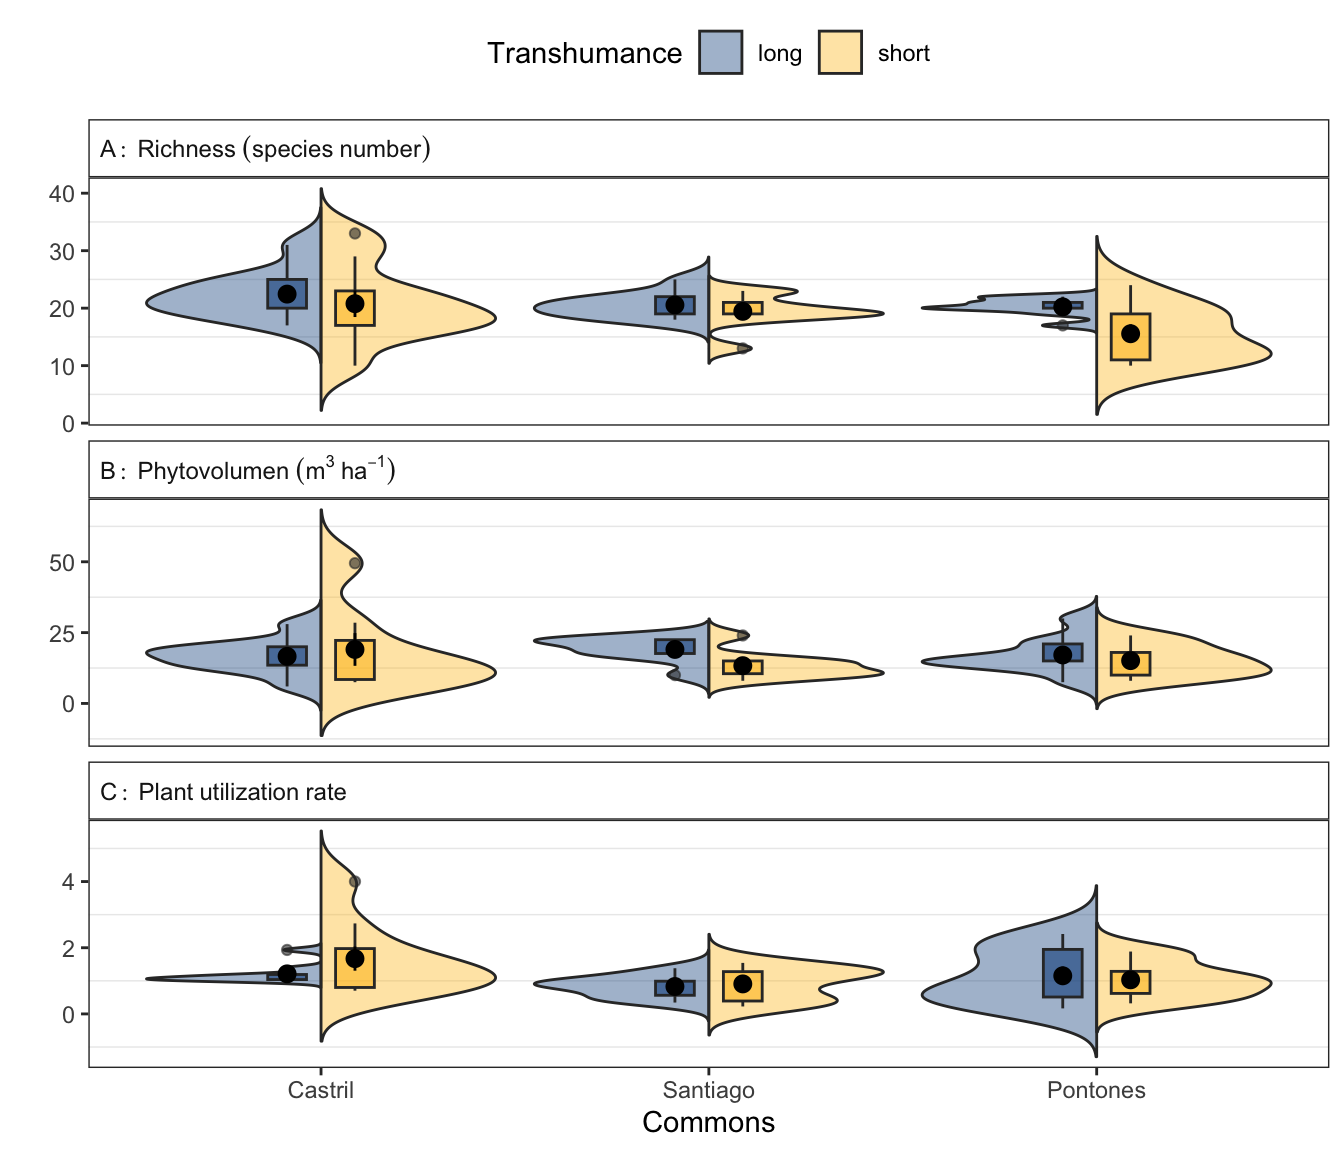
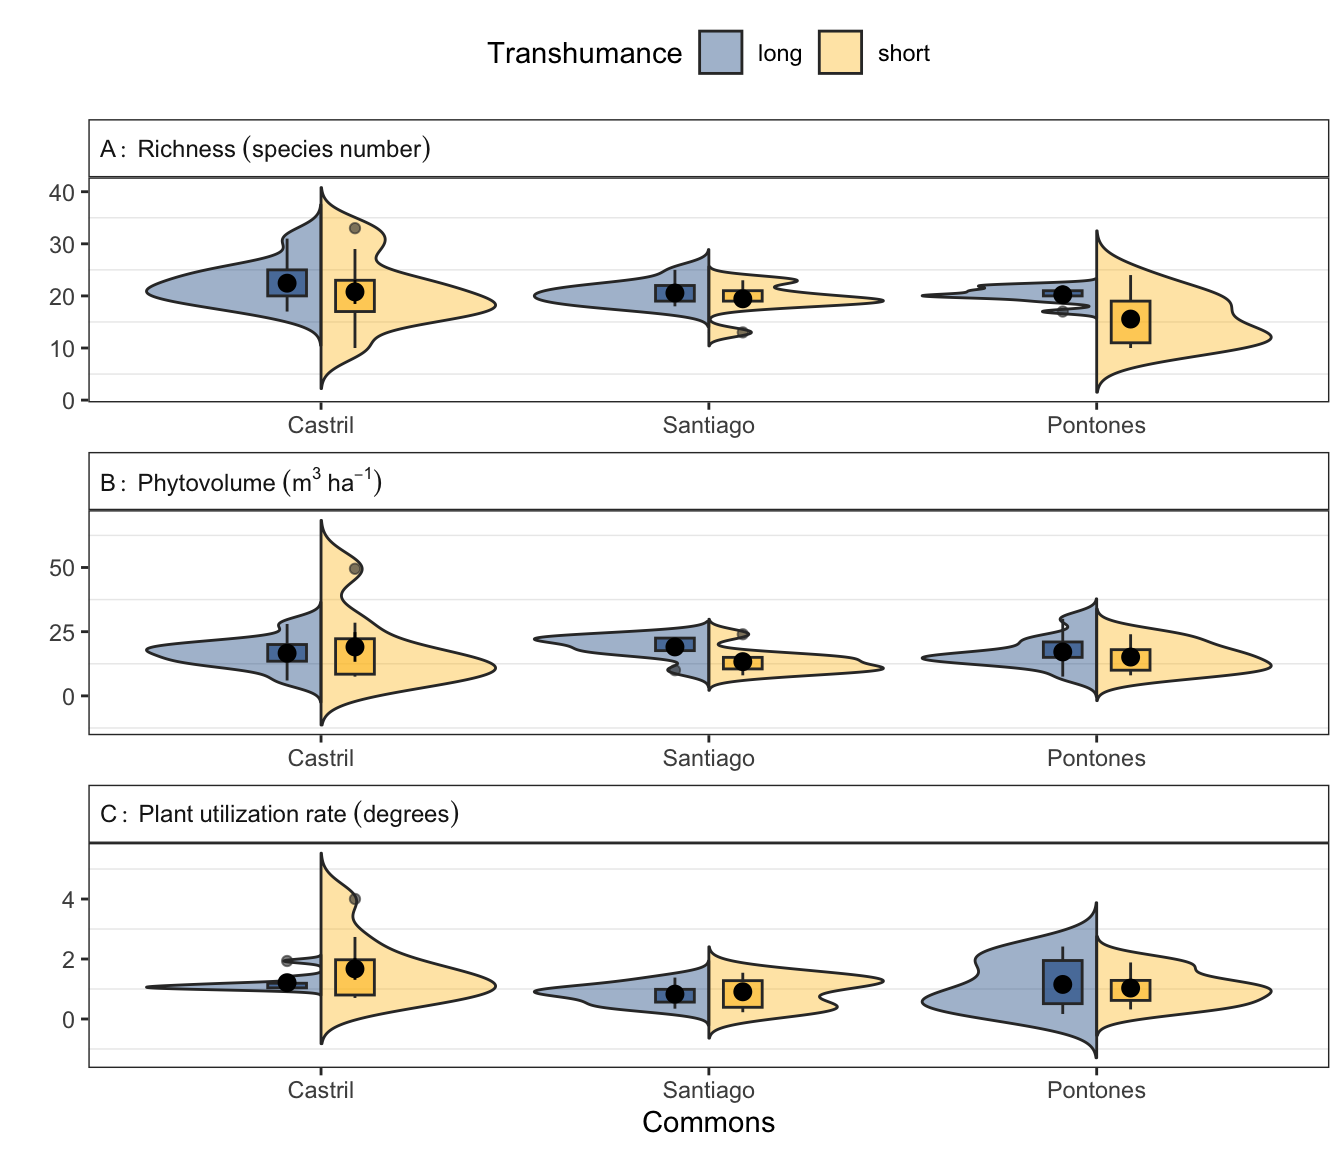
Build site.

diff --git a/docs/plots_commons_social.html b/docs/plots_commons_social.html
@@ -331,7 +331,7 @@ Checks <span class="glyphicon glyphicon-ok text-success" aria-hidden="true"></sp
 <div class="tab-content">
 <div id="summary" class="tab-pane fade in active">
 <p>
-<strong>Last updated:</strong> 2023-01-16
+<strong>Last updated:</strong> 2023-04-04
 </p>
 <p>
 <strong>Checks:</strong>
@@ -459,20 +459,20 @@ makes it easier to run your code on other machines.</p>
 <div class="panel panel-default">
 <div class="panel-heading">
 <p class="panel-title">
-<a data-toggle="collapse" data-parent="#workflowr-checks" href="#strongRepositoryversionstrongahrefhttpsgithubcomajpeluhumanecologytree3bbafbcb69c59c4a0760ad779698f3aeb27d7da1targetblank3bbafbca">
+<a data-toggle="collapse" data-parent="#workflowr-checks" href="#strongRepositoryversionstrongahrefhttpsgithubcomajpeluhumanecologytree24436310bbff6763eb1f9c738fd96c31eef33314targetblank2443631a">
 <span class="glyphicon glyphicon-ok text-success" aria-hidden="true"></span>
-<strong>Repository version:</strong> <a href="https://github.com/ajpelu/human_ecology/tree/3bbafbcb69c59c4a0760ad779698f3aeb27d7da1" target="_blank">3bbafbc</a>
+<strong>Repository version:</strong> <a href="https://github.com/ajpelu/human_ecology/tree/24436310bbff6763eb1f9c738fd96c31eef33314" target="_blank">2443631</a>
 </a>
 </p>
 </div>
[2 lines of base64/hex data omitted]
 <div class="panel-body">
 <p>
 Great! You are using Git for version control. Tracking code development and
 connecting the code version to the results is critical for reproducibility.
 </p>
 <p>
-The results in this page were generated with repository version <a href="https://github.com/ajpelu/human_ecology/tree/3bbafbcb69c59c4a0760ad779698f3aeb27d7da1" target="_blank">3bbafbc</a>.
+The results in this page were generated with repository version <a href="https://github.com/ajpelu/human_ecology/tree/24436310bbff6763eb1f9c738fd96c31eef33314" target="_blank">2443631</a>.
 See the <em>Past versions</em> tab to see a history of the changes made to the
 R Markdown and HTML files.
 </p>
@@ -486,15 +486,22 @@ results were generated:
 </p>
 <pre><code>
 Ignored files:
+    Ignored:    .DS_Store
     Ignored:    .Rhistory
     Ignored:    .Rproj.user/
 
 Untracked files:
-    Untracked:  output/combined_plot.jpg
-    Untracked:  output/spider_plot.jpg
+    Untracked:  output/combined_plot.svg
+    Untracked:  output/combined_plot_letters.jpg
+    Untracked:  output/combined_plot_letters.svg
+    Untracked:  output/spider_plot.svg
+    Untracked:  output/spider_plot.svg.2023_02_01_14_47_21.0.svg
+    Untracked:  output/spider_plot.svg.2023_02_07_16_19_28.0.svg
 
 Unstaged changes:
     Modified:   code/load_pkgs.R
+    Modified:   output/combined_plot.jpg
+    Modified:   output/spider_plot.jpg
 
 </code></pre>
 <p>
@@ -544,6 +551,40 @@ Message
 Rmd
 </td>
 <td>
+<a href="https://github.com/ajpelu/human_ecology/blob/24436310bbff6763eb1f9c738fd96c31eef33314/analysis/plots_commons_social.Rmd" target="_blank">2443631</a>
+</td>
+<td>
+ajpelu
+</td>
+<td>
+2023-04-04
+</td>
+<td>
+wflow_publish("analysis/plots_commons_social.Rmd")
+</td>
+</tr>
+<tr>
+<td>
+html
+</td>
+<td>
+<a href="https://rawcdn.githack.com/ajpelu/human_ecology/bcd2feedbeb855f1d87a68821abdda504062604b/docs/plots_commons_social.html" target="_blank">bcd2fee</a>
+</td>
+<td>
+ajpelu
+</td>
+<td>
+2023-01-16
+</td>
+<td>
+Build site.
+</td>
+</tr>
+<tr>
+<td>
+Rmd
+</td>
+<td>
 <a href="https://github.com/ajpelu/human_ecology/blob/3bbafbcb69c59c4a0760ad779698f3aeb27d7da1/analysis/plots_commons_social.Rmd" target="_blank">3bbafbc</a>
 </td>
 <td>
@@ -587,8 +628,8 @@ source(&quot;code/aux_functions.R&quot;)</code></pre>
   pivot_longer(cols = c(riqueza:tasa_cons)) |&gt; 
   mutate(names_var = recode_factor(name, 
                             riqueza = &quot;A:~Richness~(species~number)&quot;,
-                            fitovol_dm3 = &quot;B:~Phytovolumen~(m^3~ha^{-1})&quot;,
-                            tasa_cons = &quot;C:~Plant~utilization~rate&quot;))
+                            fitovol_dm3 = &quot;B:~Phytovolume~(m^3~ha^{-1})&quot;,
+                            tasa_cons = &quot;C:~Plant~utilization~rate~(degrees)&quot;))
 
 combined_plot &lt;- dflong |&gt;
   ggplot(aes(x = commons, y = value, fill = transh)) +
@@ -606,9 +647,9 @@ combined_plot &lt;- dflong |&gt;
   scale_fill_manual(name = &quot;Transhumance&quot;, values = colores) +
   # scale_fill_brewer(palette = &quot;Dark2&quot;, name = &quot;Transhumance&quot;) +
   theme_bw() +
-  facet_wrap(~names_var, scales = &quot;free_y&quot;, 
+  lemon::facet_rep_wrap(~names_var, scales = &quot;free_y&quot;, 
     labeller = label_parsed, 
-    ncol = 1) +
+    ncol = 1, repeat.tick.labels = T) +
   ylab(&#39;&#39;) + 
   theme(
     legend.position = &quot;top&quot;,
@@ -619,10 +660,52 @@ combined_plot &lt;- dflong |&gt;
   )
 combined_plot</code></pre>
 <p><img src="figure/plots_commons_social.Rmd/unnamed-chunk-2-1.png" width="672" style="display: block; margin: auto;" /></p>
+<p>
+<button type="button" class="btn btn-default btn-xs btn-workflowr btn-workflowr-fig" data-toggle="collapse" data-target="#fig-unnamed-chunk-2-1">
+Past versions of unnamed-chunk-2-1.png
+</button>
+</p>
+<div id="fig-unnamed-chunk-2-1" class="collapse">
+<div class="table-responsive">
+<table class="table table-condensed table-hover">
+<thead>
+<tr>
+<th>
+Version
+</th>
+<th>
+Author
+</th>
+<th>
+Date
+</th>
+</tr>
+</thead>
+<tbody>
+<tr>
+<td>
+<a href="https://github.com/ajpelu/human_ecology/blob/bcd2feedbeb855f1d87a68821abdda504062604b/docs/figure/plots_commons_social.Rmd/unnamed-chunk-2-1.png" target="_blank">bcd2fee</a>
+</td>
+<td>
+ajpelu
+</td>
+<td>
+2023-01-16
+</td>
+</tr>
+</tbody>
+</table>
+</div>
+</div>
 <pre class="r"><code>ggsave(plot = combined_plot, 
        filename = here::here(&quot;output/combined_plot.jpg&quot;), 
        height = 20, width = 12, units = &quot;cm&quot;,
-       dpi = 1200, device = &quot;jpeg&quot;)</code></pre>
+       dpi = 1200, device = &quot;jpeg&quot;)
+
+ggsave(plot = combined_plot, 
+       filename = here::here(&quot;output/combined_plot.svg&quot;), 
+       height = 20, width = 12, units = &quot;cm&quot;,
+       dpi = 1200, device = &quot;svg&quot;)</code></pre>
 </div>
 <div id="spider-plots" class="section level2">
 <h2>Spider plots</h2>
@@ -645,6 +728,25 @@ combined_plot</code></pre>
   sr_spr = &quot;sr.spr&quot;,
   sr_estiercol = &quot;estiercol_kg_ha&quot;,
   pur = &quot;tasa_cons&quot;) </code></pre>
+<pre class="r"><code>dd &lt;- d_raw |&gt; dplyr::select(
+  commons, transh, 
+  Diversity = &quot;shannon&quot;,
+  Richness = &quot;riqueza&quot;,
+  &#39;Plant cover&#39; = &quot;rec_total_porc&quot;,
+  Phytovolume = &quot;fitovol_dm3&quot;,
+  SOM = &quot;mo&quot;,
+  CEC = &quot;cic&quot;,
+  P = &quot;fosforo&quot;,
+  pH = &quot;ph&quot;,
+  K = &quot;potasio&quot;,
+  N = &quot;nitrogeno&quot;,
+  C = &quot;carbono&quot;,
+  SSR = &quot;sr.sum&quot;,
+  ASR = &quot;sr.aut&quot;,
+  WSR = &quot;sr.win&quot;,
+  SpSR = &quot;sr.spr&quot;,
+  Manure = &quot;estiercol_kg_ha&quot;,
+  PUR = &quot;tasa_cons&quot;) </code></pre>
 <pre class="r"><code>spider_transh &lt;- dd |&gt;
   dplyr::select(-commons) |&gt;
   group_by(transh) |&gt; 
@@ -654,6 +756,8 @@ combined_plot</code></pre>
                    .names = &quot;{.col}&quot;)) |&gt; 
   ungroup() |&gt; 
   mutate_at(vars(-transh), scales::rescale) |&gt; 
+  dplyr::select(transh, Richness, Diversity, Phytovolume, `Plant cover`, SOM,
+                pH, CEC, P, K, C, N, WSR, ASR, SpSR, PUR, Manure) |&gt; 
   ggradar(
     base.size = 3,
     group.line.width = 1, 
@@ -676,6 +780,8 @@ combined_plot</code></pre>
                    .names = &quot;{.col}&quot;)) |&gt; 
   ungroup() |&gt; 
   mutate_at(vars(-commons), scales::rescale) |&gt; 
+  dplyr::select(commons, Richness, Diversity, Phytovolume, `Plant cover`, SOM,
+                pH, CEC, P, K, C, N, WSR, ASR, SpSR, PUR, Manure) |&gt; 
   ggradar(
     base.size = 3,
     group.line.width = 1, 
@@ -691,11 +797,17 @@ combined_plot</code></pre>
   )</code></pre>
 <pre class="r"><code>plot_spider &lt;- spider_commons + spider_transh
 plot_spider</code></pre>
-<p><img src="figure/plots_commons_social.Rmd/unnamed-chunk-7-1.png" width="672" style="display: block; margin: auto;" /></p>
+<p><img src="figure/plots_commons_social.Rmd/unnamed-chunk-9-1.png" width="672" style="display: block; margin: auto;" /></p>
 <pre class="r"><code>ggsave(plot = plot_spider, 
        filename = here::here(&quot;output/spider_plot.jpg&quot;), 
        height = 20, width = 27, units = &quot;cm&quot;,
-       dpi = 600, device = &quot;jpeg&quot;)</code></pre>
+       dpi = 600, device = &quot;jpeg&quot;)
+
+
+ggsave(plot = plot_spider, 
+       filename = here::here(&quot;output/spider_plot.svg&quot;), 
+       height = 20, width = 27, units = &quot;cm&quot;,
+       dpi = 600, device = &quot;svg&quot;)</code></pre>
 <br>
 <p>
 <button type="button" class="btn btn-default btn-workflowr btn-workflowr-sessioninfo" data-toggle="collapse" data-target="#workflowr-sessioninfo" style="display: block;">
@@ -720,25 +832,26 @@ attached base packages:
 [1] stats     graphics  grDevices utils     datasets  methods   base     
 
 other attached packages:
- [1] ggradar_0.2             DT_0.26                 introdataviz_0.0.0.9003
- [4] broom.mixed_0.2.9.4     lmerTest_3.1-3          car_3.1-0              
- [7] carData_3.0-5           emmeans_1.8.1-1         glmulti_1.0.8          
-[10] rJava_1.0-6             arm_1.13-1              MASS_7.3-57            
-[13] multilevelmod_1.0.0     yardstick_1.1.0         workflowsets_1.0.0     
-[16] workflows_1.1.0         tune_1.0.1              rsample_1.1.0          
-[19] recipes_1.0.1           parsnip_1.0.2           modeldata_1.0.1        
-[22] infer_1.0.3             dials_1.0.0             scales_1.2.1           
-[25] broom_1.0.1             tidymodels_1.0.0        MuMIn_1.47.1           
-[28] lme4_1.1-30             Matrix_1.5-1            glue_1.6.2             
-[31] rmdformats_1.0.4        knitr_1.41              leaps_3.1              
-[34] factoextra_1.0.7        nlme_3.1-157            DHARMa_0.4.6           
-[37] performance_0.10.0      kableExtra_1.3.4        corrplot_0.92          
-[40] correlation_0.8.2       patchwork_1.1.2         vegan_2.6-4            
-[43] lattice_0.20-45         permute_0.9-7           fuzzySim_4.3           
-[46] janitor_2.1.0           here_1.0.1              forcats_0.5.2          
-[49] stringr_1.4.1           dplyr_1.0.10            purrr_0.3.5            
-[52] readr_2.1.3             tidyr_1.2.1             tibble_3.1.8           
-[55] ggplot2_3.4.0           tidyverse_1.3.2         workflowr_1.7.0        
+ [1] lemon_0.4.6             ggradar_0.2             DT_0.26                
+ [4] introdataviz_0.0.0.9003 broom.mixed_0.2.9.4     lmerTest_3.1-3         
+ [7] car_3.1-0               carData_3.0-5           emmeans_1.8.1-1        
+[10] glmulti_1.0.8           rJava_1.0-6             arm_1.13-1             
+[13] MASS_7.3-57             multilevelmod_1.0.0     yardstick_1.1.0        
+[16] workflowsets_1.0.0      workflows_1.1.0         tune_1.0.1             
+[19] rsample_1.1.0           recipes_1.0.1           parsnip_1.0.2          
+[22] modeldata_1.0.1         infer_1.0.3             dials_1.0.0            
+[25] scales_1.2.1            broom_1.0.1             tidymodels_1.0.0       
+[28] MuMIn_1.47.1            lme4_1.1-30             Matrix_1.5-1           
+[31] glue_1.6.2              rmdformats_1.0.4        knitr_1.41             
+[34] leaps_3.1               factoextra_1.0.7        nlme_3.1-157           
+[37] DHARMa_0.4.6            performance_0.10.0      kableExtra_1.3.4       
+[40] corrplot_0.92           correlation_0.8.2       patchwork_1.1.2        
+[43] vegan_2.6-4             lattice_0.20-45         permute_0.9-7          
+[46] fuzzySim_4.3            janitor_2.1.0           here_1.0.1             
+[49] forcats_0.5.2           stringr_1.4.1           dplyr_1.0.10           
+[52] purrr_0.3.5             readr_2.1.3             tidyr_1.2.1            
+[55] tibble_3.1.8            ggplot2_3.4.0           tidyverse_1.3.2        
+[58] workflowr_1.7.0        
 
 loaded via a namespace (and not attached):
   [1] utf8_1.2.2          tidyselect_1.2.0    htmlwidgets_1.5.4  
@@ -755,8 +868,8 @@ loaded via a namespace (and not attached):
  [34] nnet_7.3-17         googlesheets4_1.0.1 gtable_0.3.1       
  [37] globals_0.16.2      processx_3.7.0      timeDate_4021.106  
  [40] rlang_1.0.6         systemfonts_1.0.4   splines_4.2.1      
- [43] gargle_1.2.1        yaml_2.3.6          abind_1.4-5        
- [46] modelr_0.1.9        backports_1.4.1     httpuv_1.6.6       
+ [43] gargle_1.2.1        yaml_2.3.7          abind_1.4-5        
+ [46] modelr_0.1.9        backports_1.4.1     httpuv_1.6.8       
  [49] tools_4.2.1         lava_1.6.10         bookdown_0.30      
  [52] ellipsis_0.3.2      jquerylib_0.1.4     plyr_1.8.7         
  [55] Rcpp_1.0.9          ps_1.7.1            rpart_4.1.16       
@@ -764,24 +877,25 @@ loaded via a namespace (and not attached):
  [61] fs_1.5.2            furrr_0.3.1.9000    magrittr_2.0.3     
  [64] reprex_2.0.2        GPfit_1.0-8         googledrive_2.0.0  
  [67] mvtnorm_1.1-3       whisker_0.4         hms_1.1.2          
- [70] evaluate_0.18       xtable_1.8-4        readxl_1.4.1       
- [73] compiler_4.2.1      crayon_1.5.2        minqa_1.2.4        
- [76] htmltools_0.5.3     mgcv_1.8-40         later_1.3.0        
- [79] tzdb_0.3.0          lubridate_1.8.0     DBI_1.1.3          
- [82] dbplyr_2.2.1        boot_1.3-28         modEvA_3.5         
- [85] cli_3.4.1           parallel_4.2.1      insight_0.18.4     
- [88] gower_1.0.0         pkgconfig_2.0.3     getPass_0.2-2      
- [91] numDeriv_2016.8-1.1 terra_1.6-17        xml2_1.3.3         
- [94] foreach_1.5.2       svglite_2.1.0       bslib_0.4.1        
- [97] hardhat_1.2.0       webshot_0.5.4       estimability_1.4.1 
-[100] prodlim_2019.11.13  rvest_1.0.3         snakecase_0.11.0   
-[103] callr_3.7.3         digest_0.6.31       rmarkdown_2.18     
-[106] cellranger_1.1.0    nloptr_2.0.3        lifecycle_1.0.3    
-[109] jsonlite_1.8.3      viridisLite_0.4.1   fansi_1.0.3        
-[112] pillar_1.8.1        fastmap_1.1.0       httr_1.4.4         
-[115] survival_3.3-1      bayestestR_0.13.0   iterators_1.0.14   
-[118] bit_4.0.4           class_7.3-20        stringi_1.7.8      
-[121] sass_0.4.3          textshaping_0.3.6   future.apply_1.9.1 </code></pre>
+ [70] evaluate_0.18       xtable_1.8-4        readxl_1.4.2       
+ [73] gridExtra_2.3       compiler_4.2.1      crayon_1.5.2       
+ [76] minqa_1.2.4         htmltools_0.5.4     mgcv_1.8-40        
+ [79] later_1.3.0         tzdb_0.3.0          lubridate_1.8.0    
+ [82] DBI_1.1.3           dbplyr_2.2.1        boot_1.3-28        
+ [85] modEvA_3.5          cli_3.6.0           parallel_4.2.1     
+ [88] insight_0.18.4      gower_1.0.0         pkgconfig_2.0.3    
+ [91] getPass_0.2-2       numDeriv_2016.8-1.1 terra_1.6-53       
+ [94] xml2_1.3.3          foreach_1.5.2       svglite_2.1.0      
+ [97] bslib_0.4.2         hardhat_1.2.0       webshot_0.5.4      
+[100] estimability_1.4.1  prodlim_2019.11.13  rvest_1.0.3        
+[103] snakecase_0.11.0    callr_3.7.3         digest_0.6.31      
+[106] rmarkdown_2.18      cellranger_1.1.0    nloptr_2.0.3       
+[109] lifecycle_1.0.3     jsonlite_1.8.4      viridisLite_0.4.1  
+[112] fansi_1.0.3         pillar_1.8.1        fastmap_1.1.0      
+[115] httr_1.4.4          survival_3.3-1      bayestestR_0.13.0  
+[118] iterators_1.0.14    bit_4.0.4           class_7.3-20       
+[121] stringi_1.7.8       sass_0.4.4          textshaping_0.3.6  
+[124] future.apply_1.9.1 </code></pre>
 </div>
 </div>
 
